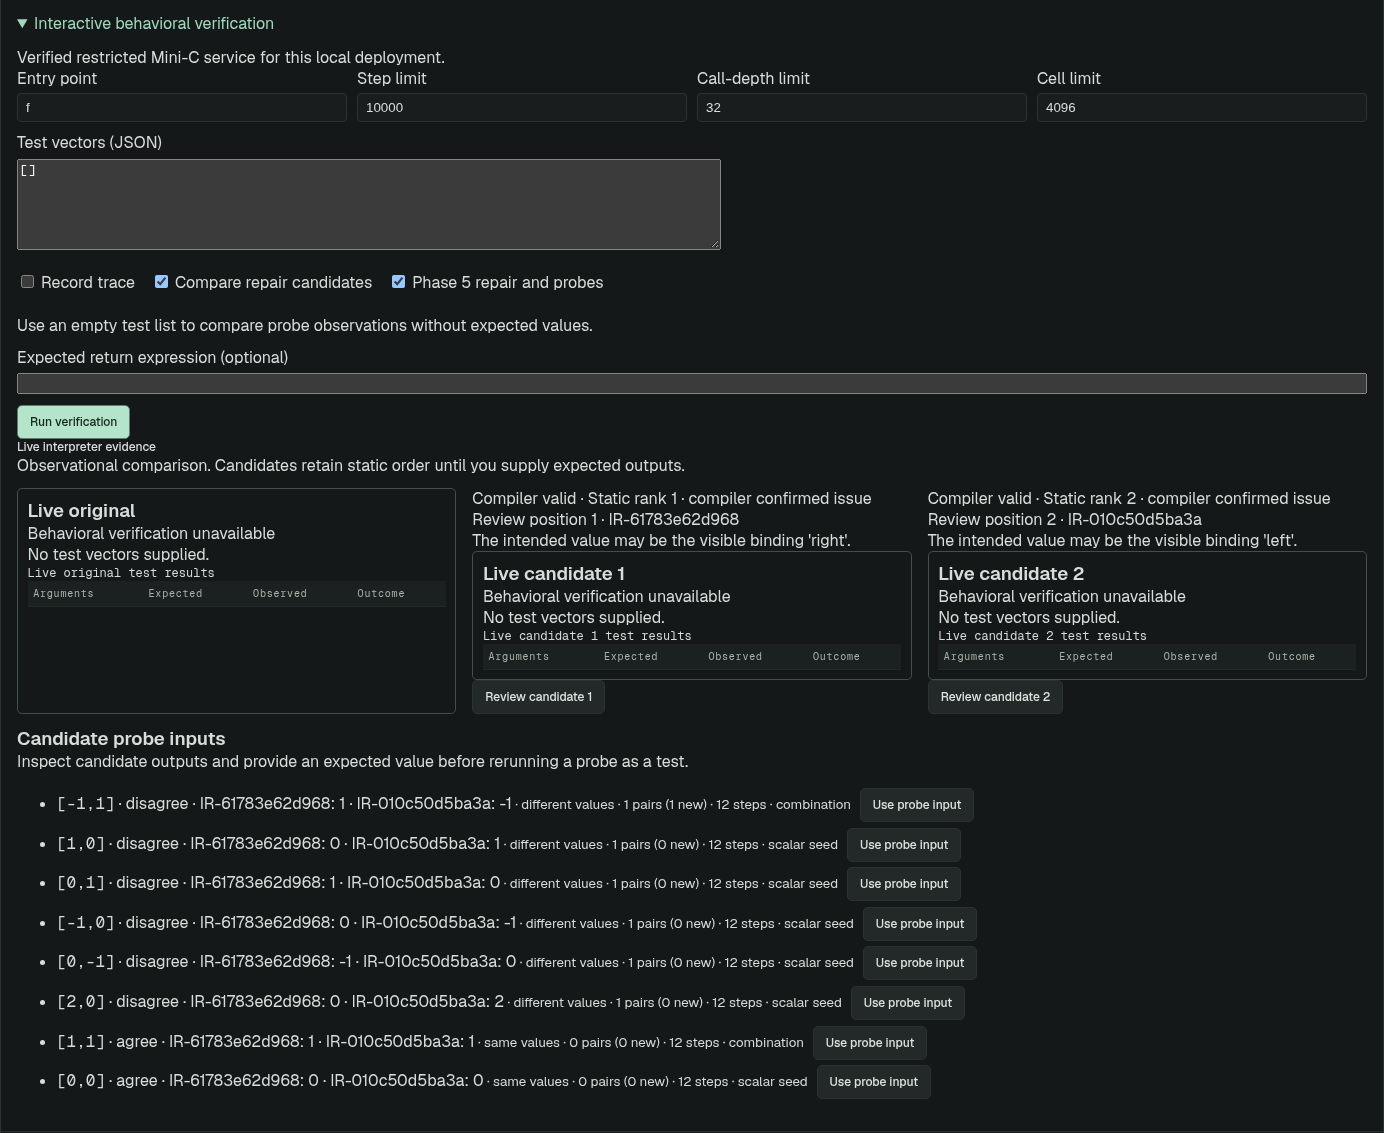
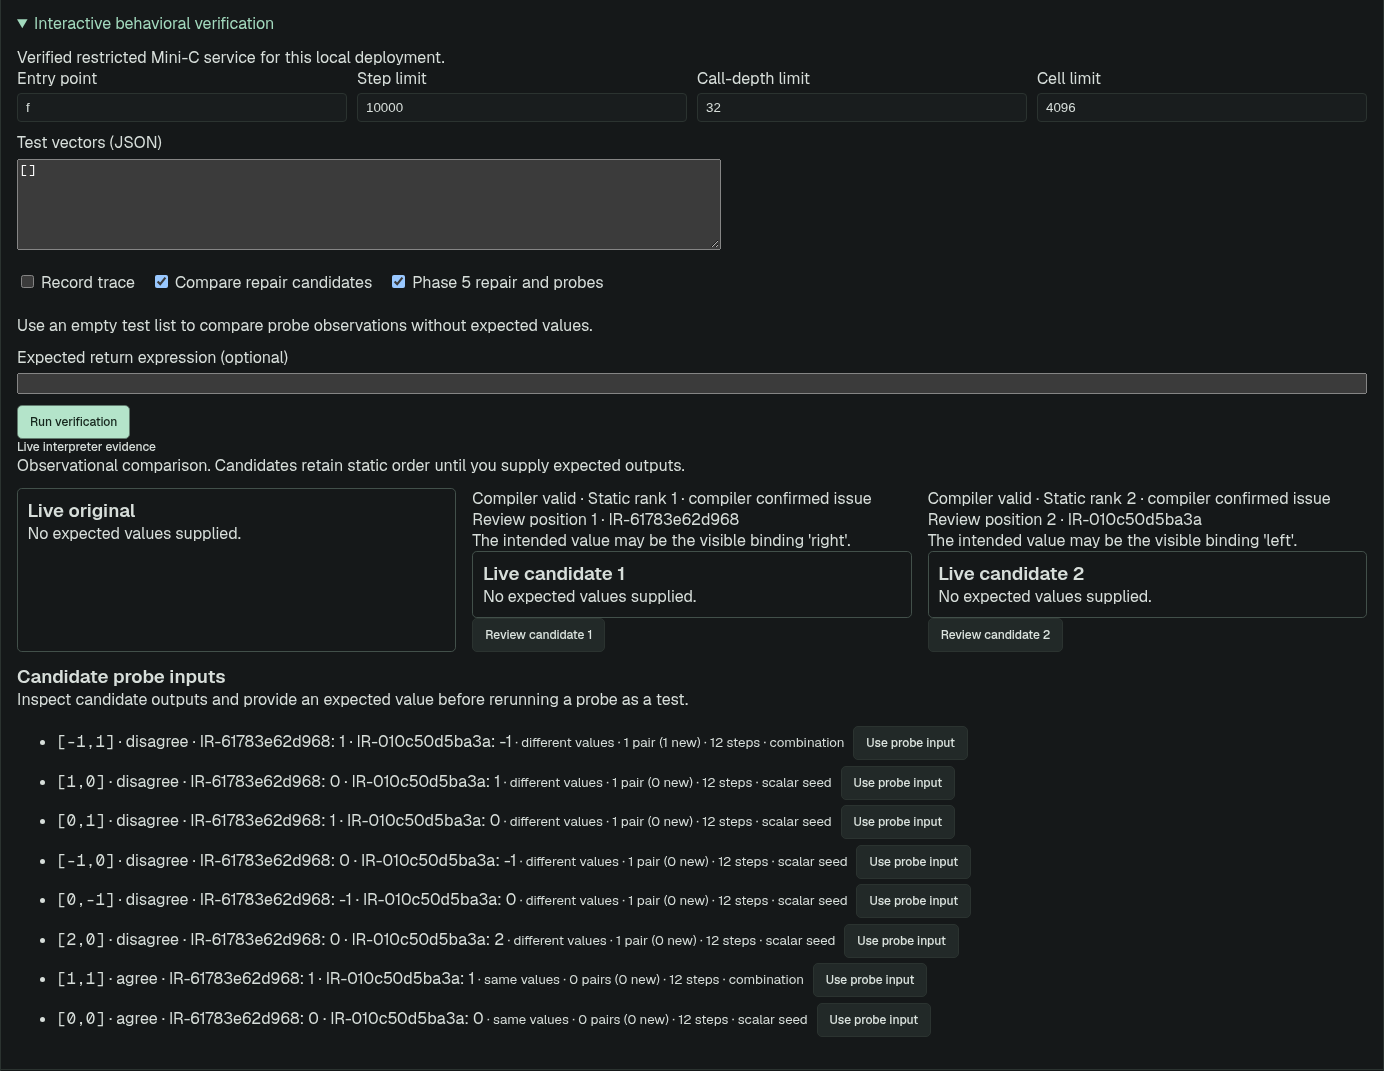
Keep structural edit previews and observation-only evidence readable

diff --git a/frontend/src/components/InteractiveBehavior.tsx b/frontend/src/components/InteractiveBehavior.tsx
@@ -180,14 +180,14 @@ export function InteractiveBehavior({ code, functions, onNavigate, onApply }: Pr
         {phase5 && result.original.status === "ORACLE_UNAVAILABLE" && <p>Observational comparison. Candidates retain static order until you supply expected outputs.</p>}
         {result.comparison_status === "MULTIPLE_MATCHES" && <p>Multiple candidates match. More test cases may distinguish them.</p>}
         <div className="behavior-evidence">
-          <Evidence label="Live original" result={result.original} onNavigate={onNavigate} />
+          <Evidence label="Live original" result={result.original} onNavigate={onNavigate} observationOnly={phase5} />
           {result.review_order.map((id, index) => {
             const item = result.candidates.find((row) => row.id === id);
             return item && <article key={id}>
               <p>Compiler valid · Static rank {item.static_rank} · {item.static_evidence.toLowerCase().replaceAll("_", " ")}</p>
               {phase5 && <p>Review position {index + 1} · {item.id}</p>}
               <p>{item.hypothesis}</p>
-              <Evidence label={`Live candidate ${item.static_rank}`} result={item.behavior} />
+              <Evidence label={`Live candidate ${item.static_rank}`} result={item.behavior} observationOnly={phase5} />
               <button type="button" onClick={() => setSelected(id)}>Review candidate {item.static_rank}</button>
             </article>;
           })}
@@ -198,8 +198,8 @@ export function InteractiveBehavior({ code, functions, onNavigate, onApply }: Pr
           <ul>{result.probes.map((probe) => <li key={JSON.stringify(probe.arguments)}>
             <code>{JSON.stringify(probe.arguments)}</code> · {probe.relation} · {probe.candidates.map((row) =>
               `${row.candidate_id}: ${row.actual !== null ? String(row.actual) : row.issue ?? row.status}`).join(" · ")}
-            {probe.assessment && <small> · {probe.assessment.replaceAll("_", " ")} · {probe.separated_pairs} pairs
-              ({probe.new_pairs} new) · {probe.steps} steps · {probe.input_basis?.replaceAll("_", " ")}</small>}
+            {probe.assessment && <small> · {probe.assessment.replaceAll("_", " ")} · {probe.separated_pairs} {probe.separated_pairs === 1 ? "pair" : "pairs"}
+              {" "}({probe.new_pairs} new) · {probe.steps} steps · {probe.input_basis?.replaceAll("_", " ")}</small>}
             <button type="button" onClick={() => addProbe(probe.arguments)}>Use probe input</button>
           </li>)}</ul>
         </section>}

diff --git a/frontend/src/components/BehaviorDemo.tsx b/frontend/src/components/BehaviorDemo.tsx
@@ -31,9 +31,13 @@ function location(span: Span | null) {
   return span ? `line ${span.start.line}, column ${span.start.column}` : "Location unavailable";
 }
 
-export function Evidence({ label, result, onNavigate }: {
-  label: string; result: BehaviorEvidence; onNavigate?: (span: Span) => void;
+export function Evidence({ label, result, onNavigate, observationOnly = false }: {
+  label: string; result: BehaviorEvidence; onNavigate?: (span: Span) => void; observationOnly?: boolean;
 }) {
+  if (observationOnly && result.status === "ORACLE_UNAVAILABLE") return <section className="behavior-run" aria-label={label}>
+    <h3>{label}</h3>
+    <p>No expected values supplied.</p>
+  </section>;
   const issue = result.execution?.issue;
   return <section className="behavior-run" aria-label={label}>
     <h3>{label}</h3>

diff --git a/frontend/tests/phase5.spec.ts b/frontend/tests/phase5.spec.ts
@@ -45,7 +45,7 @@ test("Phase 5 isolated probes require an explicit expectation before resolving a
   await expect(panel.getByText(/Observational comparison/)).toBeVisible();
   const probes = panel.getByRole("region", { name: "Candidate disagreement" });
   const distinct = probes.getByRole("listitem").filter({ hasText: "different values" }).first();
-  await expect(distinct).toContainText("1 pairs (1 new)");
+  await expect(distinct).toContainText("1 pair (1 new)");
   if (capture) {
     await mkdir(capture, { recursive: true });
     await panel.screenshot({ path: `${capture}/isolated-probes.png` });

diff --git a/frontend/src/components/IntentionPanel.tsx b/frontend/src/components/IntentionPanel.tsx
@@ -99,7 +99,7 @@ export function IntentionPanel({ code, onApply }: {
   const choice = result?.candidates.find((candidate) => candidate.id === selected);
 
   return (
-    <section className="intention-panel" aria-label="Intention analysis">
+    <section className="intention-panel" aria-label="Intention analysis" data-engine={engineVersion}>
       <form onSubmit={(event) => void inspect(event)} onChange={invalidate}>
         <div className="intention-fields">
           <label>Intention engine

diff --git a/frontend/src/styles.css b/frontend/src/styles.css
@@ -1106,3 +1106,4 @@ summary code {
 .live-behavior li { margin-block: .35rem; overflow-wrap: anywhere; }
 .live-behavior li button { margin-inline-start: .55rem; }
 .live-behavior .diff-before, .live-behavior .diff-after { padding: .65rem; }
+.inspector-body:has(.intention-panel[data-engine="5"] [aria-label="Intention results"]) { height: auto; }
